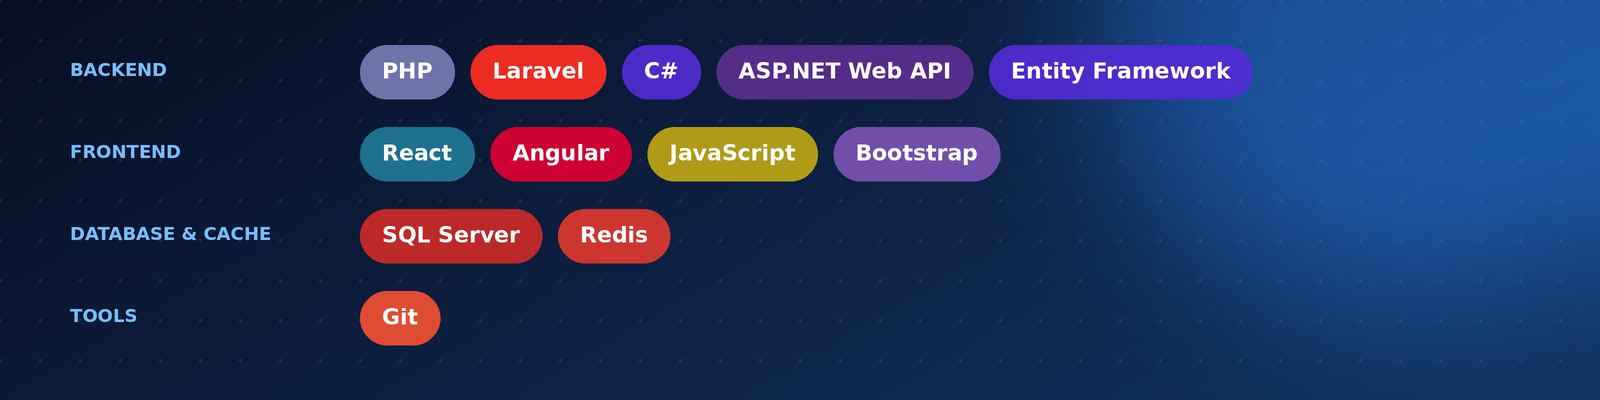
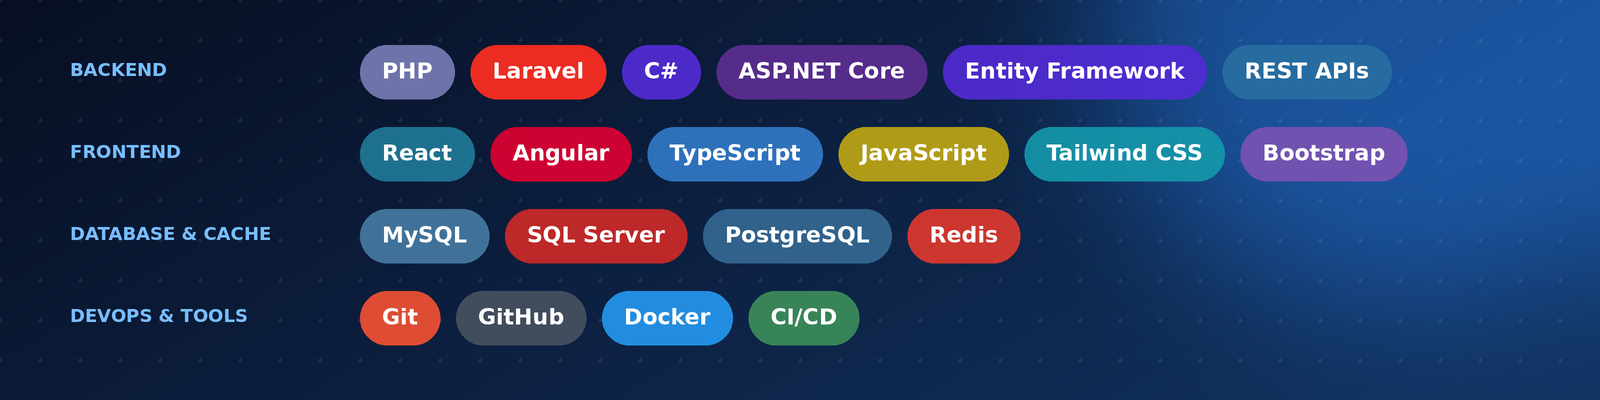
Add files via upload

diff --git a/README.md b/README.md
@@ -2,7 +2,7 @@
 
 <br/>
 
-I build backend-heavy web applications with a focus on clean architecture and database performance. On one project I cut API response times from **~10s to under 1s** using query optimization, indexing, selective column loading, and Redis caching.
+Full-Stack Software Engineer with 3+ years of experience building scalable REST APIs, ERP/CRM, and e-commerce systems with **Laravel, ASP.NET Core, and React**. I focus on performance: I've cut API response times by up to **85%** through Redis caching, SQL indexing, and eliminating N+1 queries.
 
 <br/>
 
@@ -10,33 +10,34 @@ I build backend-heavy web applications with a focus on clean architecture and da
 
 <br/>
 
-<img src="assets/stack.png" alt="Tech stack: PHP, Laravel, C#, ASP.NET Web API, Entity Framework, React, Angular, JavaScript, Bootstrap, SQL Server, Redis, Git" width="100%" />
+<img src="assets/stack.png" alt="Tech stack: PHP, Laravel, C#, ASP.NET Core, Entity Framework, REST APIs, React, Angular, TypeScript, JavaScript, Tailwind CSS, Bootstrap, MySQL, SQL Server, PostgreSQL, Redis, Git, GitHub, Docker, CI/CD" width="100%" />
 
 <br/>
 
-<img src="assets/featured-project.png" alt="Featured Project" width="100%" />
+<img src="assets/featured-project.png" alt="Featured Projects" width="100%" />
 
 ### POS & Inventory Management System
-A full POS and inventory system built with **Laravel + React**.
+`PHP` `Laravel` `React` `Bootstrap` `Redis` `MySQL` `PHPUnit`
 
-| | |
-|---|---|
-| **Inventory** | FIFO/LIFO batch tracking with accurate returns, daily/monthly snapshots via Artisan commands |
-| **Reliability** | Concurrency-safe transactions (`DB::transaction()` + `lockForUpdate()`), idempotency keys |
-| **Finance** | Wallet/balance management using a ledger + materialized balance pattern |
-| **Security** | Roles & permissions (Spatie), force-logout via Passport token revocation |
-| **Operations** | Kiosk order management with print retry logic, React admin dashboard |
-| **Architecture** | Service Layer, Repository, Strategy, Factory, Template Method |
+- Concurrency-safe POS engine using row-level locking (`lockForUpdate`) with FIFO/LIFO inventory valuation, batch tracking, and multi-unit conversion
+- Wallet/balance management using a ledger + materialized balance pattern with idempotency keys
+- Roles & permissions (Spatie) with force-logout via Passport token revocation
+- Automated monthly inventory snapshots for auditing, covered with unit tests
+- Architecture: Service Layer, Repository, Strategy, Factory, Template Method
 
-[View repository](#)
+### Infantry House ERP System
+`Laravel` `React` `MySQL` `Active Directory`
+
+- LAN-based ERP covering inventory, invoicing, HR/payroll, cashier operations, and role-based access control (RBAC)
+- Domain-based SSO authentication through Windows Server and Active Directory
 
 <br/>
 
 <img src="assets/currently.png" alt="Currently" width="100%" />
 
-- Going deeper into **C# / ASP.NET** and **SQL Server** (indexing, query tuning)
+- Going deeper into **C# / ASP.NET Core** and **SQL Server** (indexing, query tuning)
 - Learning **Java / Spring Boot** as a longer-term second backend stack
-- Improving my testing skills (unit tests, mocking, dependency injection)
+- Real-time features with **Laravel Reverb, Redis, and WebSockets**
 
 <br/>
 
@@ -46,7 +47,7 @@ A full POS and inventory system built with **Laravel + React**.
 
 <div align="center">
 
-**[LinkedIn](https://www.linkedin.com/in/ahmed-ebrahim4/)**  ·  **[Email](mailto:ahmed.ibrahim.dev1@gmail.com)**
+**[LinkedIn](https://www.linkedin.com/in/ahmed-ebrahim4/)**  ·  **[GitHub](https://github.com/Eng-Ahmed-Ibrahim)**  ·  **[Email](mailto:ahmed.ibrahim.dev1@gmail.com)**
 
 </div>
 
